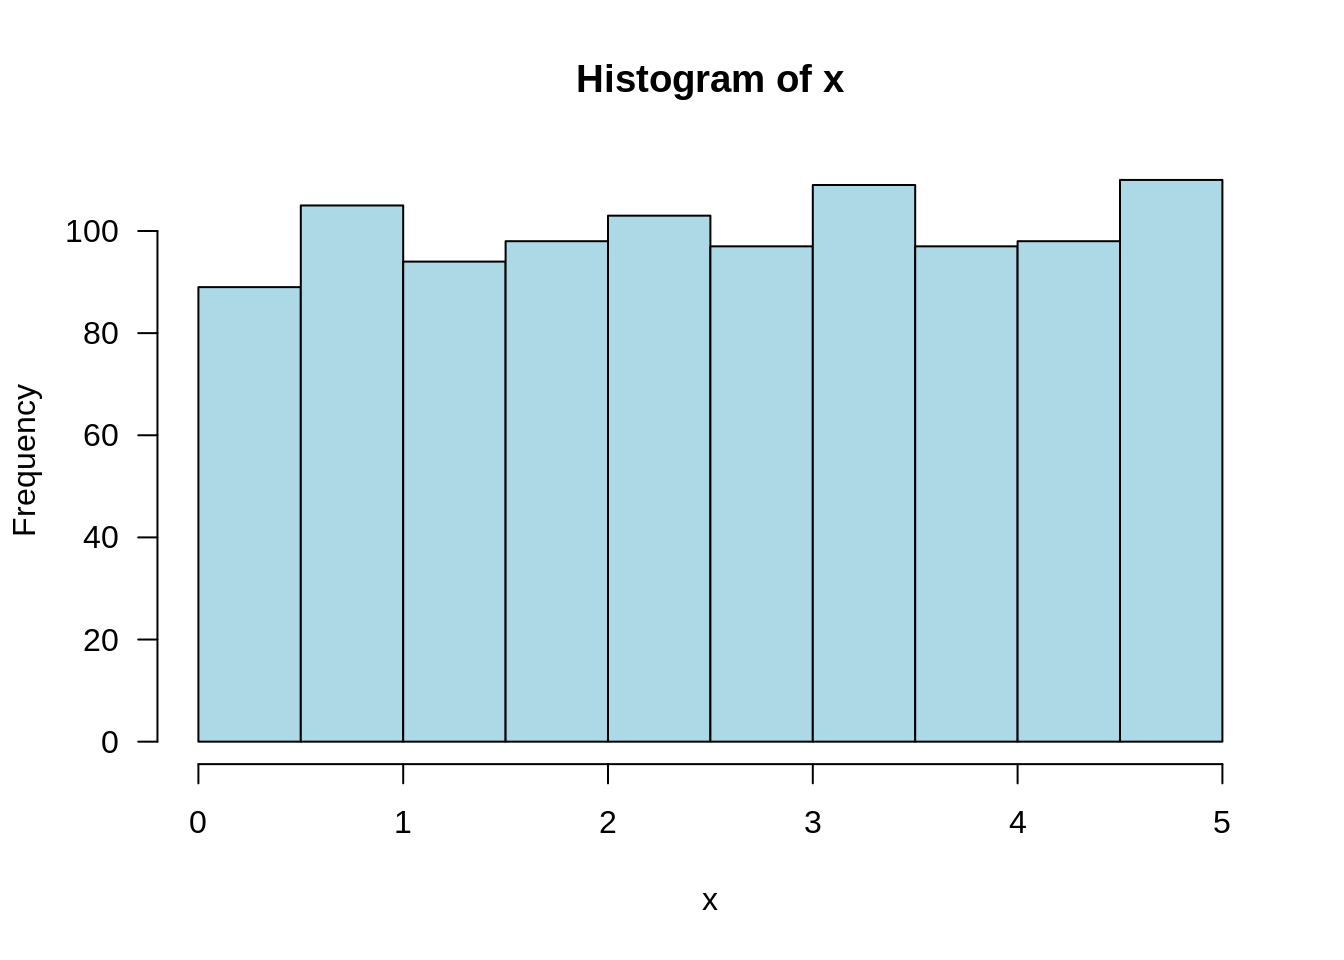
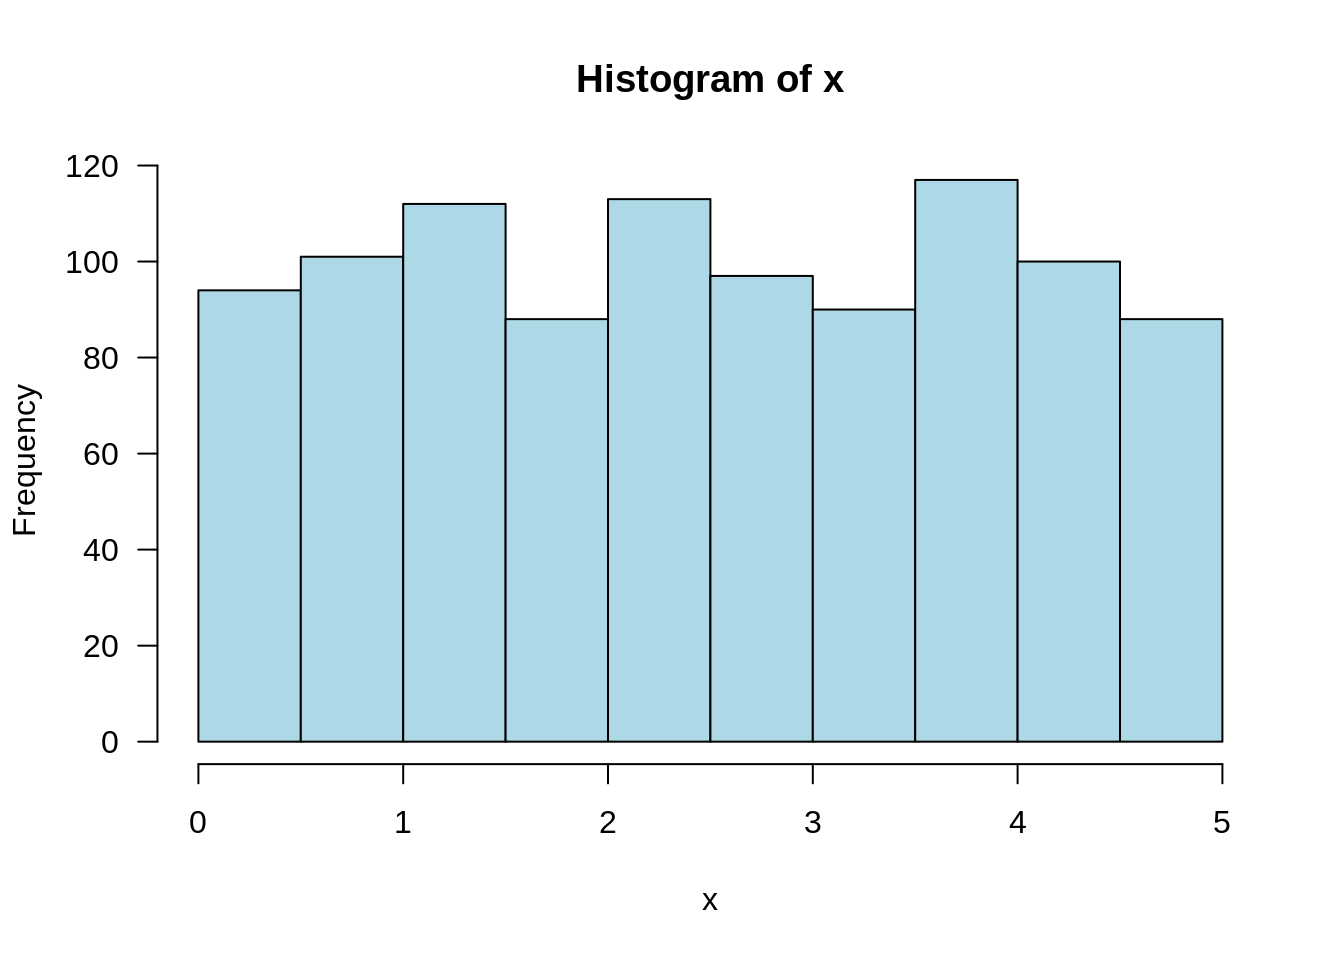
Deploying to gh-pages from @ jtr13/1201@de1b82f096629a61d926f62678b9eced0711f3a2 🚀

diff --git a/ch.-12-linear-regression.html b/ch.-12-linear-regression.html
@@ -87,7 +87,7 @@
 <h3>R<a class="anchor" aria-label="anchor" href="#r-7"><i class="fas fa-link"></i></a>
 </h3>
 <p>Calculating slope and intercept for a sample of (x, y) pairs (p. 498 formulas)</p>
-<div class="sourceCode" id="cb238"><pre class="downlit sourceCode r">
+<div class="sourceCode" id="cb236"><pre class="downlit sourceCode r">
 <code class="sourceCode R"><span class="co"># Example 12.8, p. 503</span>
 <span class="va">x</span> <span class="op">&lt;-</span> <span class="fu"><a href="https://rdrr.io/r/base/c.html">c</a></span><span class="op">(</span><span class="fl">12</span>, <span class="fl">30</span>, <span class="fl">36</span>, <span class="fl">40</span>, <span class="fl">45</span>, <span class="fl">57</span>, <span class="fl">62</span>, <span class="fl">67</span>, <span class="fl">71</span>, <span class="fl">78</span>, <span class="fl">93</span>, <span class="fl">94</span>, <span class="fl">100</span>, <span class="fl">105</span><span class="op">)</span>
 <span class="va">y</span> <span class="op">&lt;-</span> <span class="fu"><a href="https://rdrr.io/r/base/c.html">c</a></span><span class="op">(</span><span class="fl">3.3</span>, <span class="fl">3.2</span>, <span class="fl">3.4</span>, <span class="fl">3</span>, <span class="fl">2.8</span>, <span class="fl">2.9</span>, <span class="fl">2.7</span>, <span class="fl">2.6</span>, <span class="fl">2.5</span>, <span class="fl">2.6</span>, <span class="fl">2.2</span>, <span class="fl">2</span>, <span class="fl">2.3</span>, <span class="fl">2.1</span><span class="op">)</span>
@@ -100,20 +100,20 @@
 ## (Intercept)            x  
 ##     3.62091     -0.01471</code></pre>
 <p><strong>Predicted values:</strong></p>
-<div class="sourceCode" id="cb240"><pre class="downlit sourceCode r">
+<div class="sourceCode" id="cb238"><pre class="downlit sourceCode r">
 <code class="sourceCode R"><span class="va">mod</span> <span class="op">&lt;-</span> <span class="fu"><a href="https://rdrr.io/r/stats/lm.html">lm</a></span><span class="op">(</span><span class="va">y</span><span class="op">~</span><span class="va">x</span><span class="op">)</span>
 <span class="fu"><a href="https://rdrr.io/r/base/Round.html">round</a></span><span class="op">(</span><span class="va">mod</span><span class="op">$</span><span class="va">fitted.values</span>, <span class="fl">2</span><span class="op">)</span></code></pre></div>
 <pre><code>##    1    2    3    4    5    6    7    8    9   10   11   12   13   14 
 ## 3.44 3.18 3.09 3.03 2.96 2.78 2.71 2.64 2.58 2.47 2.25 2.24 2.15 2.08</code></pre>
 <p><strong>Residuals:</strong></p>
-<div class="sourceCode" id="cb242"><pre class="downlit sourceCode r">
+<div class="sourceCode" id="cb240"><pre class="downlit sourceCode r">
 <code class="sourceCode R"><span class="fu"><a href="https://rdrr.io/r/base/Round.html">round</a></span><span class="op">(</span><span class="va">mod</span><span class="op">$</span><span class="va">residuals</span>, <span class="fl">2</span><span class="op">)</span></code></pre></div>
 <pre><code>##     1     2     3     4     5     6     7     8     9    10    11    12    13 
 ## -0.14  0.02  0.31 -0.03 -0.16  0.12 -0.01 -0.04 -0.08  0.13 -0.05 -0.24  0.15 
 ##    14 
 ##  0.02</code></pre>
 <p><strong>SSE, SSR</strong></p>
-<div class="sourceCode" id="cb244"><pre class="downlit sourceCode r">
+<div class="sourceCode" id="cb242"><pre class="downlit sourceCode r">
 <code class="sourceCode R"><span class="fu"><a href="https://rdrr.io/r/stats/anova.html">anova</a></span><span class="op">(</span><span class="va">mod</span><span class="op">)</span>  <span class="co"># anova = analysis of variance</span></code></pre></div>
 <pre><code>## Analysis of Variance Table
 ## 
@@ -129,7 +129,7 @@
 <p>SST = SSE + SSR = 0.2624565 +
 2.2946864 = 2.5571</p>
 <p><strong>Coefficient of determination <span class="math inline">\(r^2\)</span></strong></p>
-<div class="sourceCode" id="cb246"><pre class="downlit sourceCode r">
+<div class="sourceCode" id="cb244"><pre class="downlit sourceCode r">
 <code class="sourceCode R"><span class="co"># Example 12.4, 12.9</span>
 <span class="va">x</span> <span class="op">&lt;-</span> <span class="fu"><a href="https://rdrr.io/r/base/c.html">c</a></span><span class="op">(</span><span class="fl">132</span>, <span class="fl">129</span>, <span class="fl">120</span>, <span class="fl">113.2</span>, <span class="fl">105</span>, <span class="fl">92</span>, <span class="fl">84</span>, <span class="fl">83.2</span>, <span class="fl">88.4</span>, <span class="fl">59</span>, <span class="fl">80</span>, <span class="fl">81.5</span>, <span class="fl">71</span>, <span class="fl">69.2</span><span class="op">)</span>
 <span class="va">y</span> <span class="op">&lt;-</span> <span class="fu"><a href="https://rdrr.io/r/base/c.html">c</a></span><span class="op">(</span><span class="fl">46</span>, <span class="fl">48</span>, <span class="fl">51</span>, <span class="fl">52.1</span>, <span class="fl">54</span>, <span class="fl">52</span>, <span class="fl">59</span>, <span class="fl">58.7</span>, <span class="fl">61.6</span>, <span class="fl">64</span>, <span class="fl">61.4</span>, <span class="fl">54.6</span>, <span class="fl">58.8</span>, <span class="fl">58</span><span class="op">)</span>
@@ -141,7 +141,7 @@
 <span class="fl">1</span> <span class="op">-</span> <span class="op">(</span><span class="va">SSE</span><span class="op">/</span><span class="va">SST</span><span class="op">)</span></code></pre></div>
 <pre><code>## [1] 0.2092398</code></pre>
 <p>Or (simply):</p>
-<div class="sourceCode" id="cb248"><pre class="downlit sourceCode r">
+<div class="sourceCode" id="cb246"><pre class="downlit sourceCode r">
 <code class="sourceCode R"><span class="fu"><a href="https://rdrr.io/r/stats/cor.html">cor</a></span><span class="op">(</span><span class="va">x</span>,<span class="va">y</span><span class="op">)</span><span class="op">^</span><span class="fl">2</span></code></pre></div>
 <pre><code>## [1] 0.7907602</code></pre>
 <p>(See section 12.5)</p>
@@ -161,7 +161,7 @@
 <h3>R<a class="anchor" aria-label="anchor" href="#r-8"><i class="fas fa-link"></i></a>
 </h3>
 <p>Sample correlation coefficient <span class="math inline">\(r\)</span></p>
-<div class="sourceCode" id="cb250"><pre class="downlit sourceCode r">
+<div class="sourceCode" id="cb248"><pre class="downlit sourceCode r">
 <code class="sourceCode R"><span class="co"># Example 12.15, p. 528</span>
 <span class="va">x</span> <span class="op">&lt;-</span> <span class="fu"><a href="https://rdrr.io/r/base/c.html">c</a></span><span class="op">(</span><span class="fl">2.4</span>, <span class="fl">3.4</span>, <span class="fl">4.6</span>, <span class="fl">3.7</span>, <span class="fl">2.2</span>, <span class="fl">3.3</span>, <span class="fl">4.0</span>, <span class="fl">2.1</span><span class="op">)</span>
 <span class="va">y</span> <span class="op">&lt;-</span> <span class="fu"><a href="https://rdrr.io/r/base/c.html">c</a></span><span class="op">(</span><span class="fl">1.33</span>, <span class="fl">2.12</span>, <span class="fl">1.80</span>, <span class="fl">1.65</span>, <span class="fl">2.00</span>, <span class="fl">1.76</span>, <span class="fl">2.11</span>, <span class="fl">1.63</span><span class="op">)</span>
@@ -177,14 +177,14 @@
 <li>
 <strong>(Least squares line)</strong> Researchers employed a least squares analysis in studying how <span class="math inline">\(Y=\)</span> porosity (%) is related to <span class="math inline">\(X=\)</span> unit weight (pcf) in concrete specimens. Consider the following representative data:</li>
 </ol>
-<div class="sourceCode" id="cb252"><pre class="downlit sourceCode r">
+<div class="sourceCode" id="cb250"><pre class="downlit sourceCode r">
 <code class="sourceCode R"><span class="va">x</span> <span class="op">&lt;-</span> <span class="fu"><a href="https://rdrr.io/r/base/c.html">c</a></span><span class="op">(</span><span class="fl">99.0</span>, <span class="fl">101.1</span>, <span class="fl">102.7</span>, <span class="fl">103.0</span>, <span class="fl">105.4</span>, <span class="fl">107.0</span>, <span class="fl">108.7</span>, <span class="fl">110.8</span>, <span class="fl">112.1</span>, <span class="fl">112.4</span>, <span class="fl">113.6</span>, <span class="fl">113.8</span>, <span class="fl">115.1</span>, <span class="fl">115.4</span>, <span class="fl">120.0</span><span class="op">)</span>
 <span class="va">y</span> <span class="op">&lt;-</span> <span class="fu"><a href="https://rdrr.io/r/base/c.html">c</a></span><span class="op">(</span><span class="fl">28.8</span>, <span class="fl">27.9</span>, <span class="fl">27.0</span>, <span class="fl">25.2</span>, <span class="fl">22.8</span>, <span class="fl">21.5</span>, <span class="fl">20.9</span>, <span class="fl">19.6</span>, <span class="fl">17.1</span>, <span class="fl">18.9</span>, <span class="fl">16.0</span>, <span class="fl">16.7</span>, <span class="fl">13.0</span>, <span class="fl">13.6</span>, <span class="fl">10.8</span><span class="op">)</span></code></pre></div>
 <p>(Textbook 12.17)</p>
 <ol style="list-style-type: lower-alpha">
 <li>Obtain the equation of the estimated regression line.</li>
 </ol>
-<div class="sourceCode" id="cb253"><pre class="downlit sourceCode r">
+<div class="sourceCode" id="cb251"><pre class="downlit sourceCode r">
 <code class="sourceCode R"><span class="fu"><a href="https://rdrr.io/r/stats/lm.html">lm</a></span><span class="op">(</span><span class="va">y</span><span class="op">~</span><span class="va">x</span><span class="op">)</span></code></pre></div>
 <pre><code>## 
 ## Call:
@@ -197,7 +197,7 @@
 <ol start="2" style="list-style-type: lower-alpha">
 <li>Calculate the residuals corresponding to the first two observations.</li>
 </ol>
-<div class="sourceCode" id="cb255"><pre class="downlit sourceCode r">
+<div class="sourceCode" id="cb253"><pre class="downlit sourceCode r">
 <code class="sourceCode R"><span class="va">mod</span> <span class="op">&lt;-</span> <span class="fu"><a href="https://rdrr.io/r/stats/lm.html">lm</a></span><span class="op">(</span><span class="va">y</span><span class="op">~</span><span class="va">x</span><span class="op">)</span>
 <span class="fu"><a href="https://rdrr.io/r/base/Round.html">round</a></span><span class="op">(</span><span class="va">mod</span><span class="op">$</span><span class="va">residuals</span>, <span class="fl">2</span><span class="op">)</span></code></pre></div>
 <pre><code>##     1     2     3     4     5     6     7     8     9    10    11    12    13 
@@ -205,31 +205,31 @@
 ##    14    15 
 ## -0.90  0.46</code></pre>
 <p>Or alternatively, use R as a calculator</p>
-<div class="sourceCode" id="cb257"><pre class="downlit sourceCode r">
+<div class="sourceCode" id="cb255"><pre class="downlit sourceCode r">
 <code class="sourceCode R"><span class="va">pred</span> <span class="op">&lt;-</span> <span class="fl">118.9099</span> <span class="op">-</span> <span class="fl">0.9047</span><span class="op">*</span><span class="va">x</span>
 <span class="va">res</span> <span class="op">&lt;-</span> <span class="va">y</span> <span class="op">-</span> <span class="va">pred</span>
 <span class="va">res</span><span class="op">[</span><span class="fl">1</span><span class="op">]</span></code></pre></div>
 <pre><code>## [1] -0.5446</code></pre>
-<div class="sourceCode" id="cb259"><pre class="downlit sourceCode r">
+<div class="sourceCode" id="cb257"><pre class="downlit sourceCode r">
 <code class="sourceCode R"><span class="va">res</span><span class="op">[</span><span class="fl">2</span><span class="op">]</span></code></pre></div>
 <pre><code>## [1] 0.45527</code></pre>
 <ol start="3" style="list-style-type: lower-alpha">
 <li>Calculate a point estimate of <span class="math inline">\(\sigma\)</span>.</li>
 </ol>
-<div class="sourceCode" id="cb261"><pre class="downlit sourceCode r">
+<div class="sourceCode" id="cb259"><pre class="downlit sourceCode r">
 <code class="sourceCode R"><span class="va">sig2</span> <span class="op">&lt;-</span> <span class="fu"><a href="https://rdrr.io/r/base/sum.html">sum</a></span><span class="op">(</span><span class="op">(</span><span class="va">res</span><span class="op">)</span><span class="op">^</span><span class="fl">2</span><span class="op">)</span><span class="op">/</span><span class="op">(</span><span class="fu"><a href="https://rdrr.io/r/base/length.html">length</a></span><span class="op">(</span><span class="va">x</span><span class="op">)</span><span class="op">-</span><span class="fl">2</span><span class="op">)</span>
 <span class="fu"><a href="https://rdrr.io/r/base/MathFun.html">sqrt</a></span><span class="op">(</span><span class="va">sig2</span><span class="op">)</span></code></pre></div>
 <pre><code>## [1] 0.938042</code></pre>
 <ol start="4" style="list-style-type: lower-alpha">
 <li>What proportion of observed variation in porosity can be attributed to the approximate linear relationship between unit weight and porosity?</li>
 </ol>
-<div class="sourceCode" id="cb263"><pre class="downlit sourceCode r">
+<div class="sourceCode" id="cb261"><pre class="downlit sourceCode r">
 <code class="sourceCode R"><span class="fu"><a href="https://rdrr.io/r/stats/cor.html">cor</a></span><span class="op">(</span><span class="va">x</span>, <span class="va">y</span><span class="op">)</span><span class="op">^</span><span class="fl">2</span></code></pre></div>
 <pre><code>## [1] 0.9738874</code></pre>
 <ol start="5" style="list-style-type: lower-alpha">
 <li>Calculate the SSE and SST.</li>
 </ol>
-<div class="sourceCode" id="cb265"><pre class="downlit sourceCode r">
+<div class="sourceCode" id="cb263"><pre class="downlit sourceCode r">
 <code class="sourceCode R"><span class="fu"><a href="https://rdrr.io/r/stats/anova.html">anova</a></span><span class="op">(</span><span class="va">mod</span><span class="op">)</span> <span class="co"># analsis of variance</span></code></pre></div>
 <pre><code>## Analysis of Variance Table
 ## 
@@ -239,13 +239,13 @@
 ## Residuals 13  11.44    0.88                             
 ## ---
 ## Signif. codes:  0 '***' 0.001 '**' 0.01 '*' 0.05 '.' 0.1 ' ' 1</code></pre>
-<div class="sourceCode" id="cb267"><pre class="downlit sourceCode r">
+<div class="sourceCode" id="cb265"><pre class="downlit sourceCode r">
 <code class="sourceCode R"><span class="va">SSE</span> <span class="op">&lt;-</span> <span class="fu"><a href="https://rdrr.io/r/stats/anova.html">anova</a></span><span class="op">(</span><span class="va">mod</span><span class="op">)</span><span class="op">$</span><span class="va">`Sum Sq`</span><span class="op">[</span><span class="fl">1</span><span class="op">]</span>
 <span class="va">SST</span> <span class="op">&lt;-</span> <span class="fu"><a href="https://rdrr.io/r/stats/anova.html">anova</a></span><span class="op">(</span><span class="va">mod</span><span class="op">)</span><span class="op">$</span><span class="va">`Sum Sq`</span><span class="op">[</span><span class="fl">1</span><span class="op">]</span> <span class="op">+</span> <span class="fu"><a href="https://rdrr.io/r/stats/anova.html">anova</a></span><span class="op">(</span><span class="va">mod</span><span class="op">)</span><span class="op">$</span><span class="va">`Sum Sq`</span><span class="op">[</span><span class="fl">2</span><span class="op">]</span>
 <span class="fu"><a href="https://rdrr.io/r/base/c.html">c</a></span><span class="op">(</span><span class="va">SSE</span>, <span class="va">SST</span><span class="op">)</span></code></pre></div>
 <pre><code>## [1] 426.6185 438.0573</code></pre>
 <p>Or alternatively, use R as a calculator. Notice that the same results are produced.</p>
-<div class="sourceCode" id="cb269"><pre class="downlit sourceCode r">
+<div class="sourceCode" id="cb267"><pre class="downlit sourceCode r">
 <code class="sourceCode R"><span class="va">SSE1</span> <span class="op">&lt;-</span> <span class="fu"><a href="https://rdrr.io/r/base/sum.html">sum</a></span><span class="op">(</span><span class="op">(</span><span class="va">mod</span><span class="op">$</span><span class="va">residual</span><span class="op">)</span><span class="op">^</span><span class="fl">2</span><span class="op">)</span>
 <span class="va">SST1</span> <span class="op">&lt;-</span> <span class="fu"><a href="https://rdrr.io/r/base/sum.html">sum</a></span><span class="op">(</span><span class="op">(</span><span class="va">y</span><span class="op">-</span><span class="fu"><a href="https://rdrr.io/r/base/mean.html">mean</a></span><span class="op">(</span><span class="va">y</span><span class="op">)</span><span class="op">)</span><span class="op">^</span><span class="fl">2</span><span class="op">)</span>
 <span class="va">SSR1</span> <span class="op">&lt;-</span> <span class="fu"><a href="https://rdrr.io/r/base/sum.html">sum</a></span><span class="op">(</span><span class="op">(</span><span class="va">mod</span><span class="op">$</span><span class="va">fitted.values</span> <span class="op">-</span> <span class="fu"><a href="https://rdrr.io/r/base/mean.html">mean</a></span><span class="op">(</span><span class="va">y</span><span class="op">)</span><span class="op">)</span><span class="op">^</span><span class="fl">2</span><span class="op">)</span>

diff --git a/ch.-14-chi-squared-test.html b/ch.-14-chi-squared-test.html
@@ -217,23 +217,8 @@
 ## 
 ## data:  data
 ## X-squared = 212.91, df = 6, p-value &lt; 0.00000000000000022</code></pre>
-<p>Alternatively, we can use R as a calculator.</p>
-<div class="sourceCode" id="cb236"><pre class="downlit sourceCode r">
-<code class="sourceCode R"><span class="va">total</span> <span class="op">&lt;-</span> <span class="fu"><a href="https://rdrr.io/r/base/sum.html">sum</a></span><span class="op">(</span><span class="va">data</span><span class="op">)</span>
-<span class="va">prob</span> <span class="op">&lt;-</span> <span class="va">data</span><span class="op">/</span><span class="va">total</span>
-<span class="va">expected</span> <span class="op">&lt;-</span> <span class="va">data</span> <span class="co"># initialize matrix "expected" to be the same size as "data"</span>
-
-<span class="kw">for</span> <span class="op">(</span><span class="va">i</span> <span class="kw">in</span> <span class="fl">1</span><span class="op">:</span><span class="fl">4</span><span class="op">)</span><span class="op">{</span>
-  <span class="kw">for</span><span class="op">(</span><span class="va">j</span> <span class="kw">in</span> <span class="fl">1</span><span class="op">:</span><span class="fl">3</span><span class="op">)</span><span class="op">{</span>
-    <span class="va">expected</span><span class="op">[</span><span class="va">i</span>,<span class="va">j</span><span class="op">]</span> <span class="op">&lt;-</span> <span class="fu"><a href="https://rdrr.io/r/base/sum.html">sum</a></span><span class="op">(</span><span class="va">prob</span><span class="op">[</span><span class="va">i</span>,<span class="op">]</span><span class="op">)</span><span class="op">*</span><span class="fu"><a href="https://rdrr.io/r/base/sum.html">sum</a></span><span class="op">(</span><span class="va">prob</span><span class="op">[</span>,<span class="va">j</span><span class="op">]</span><span class="op">)</span><span class="op">*</span><span class="va">total</span>
-  <span class="op">}</span>
-<span class="op">}</span>
-
-<span class="va">chisq</span> <span class="op">&lt;-</span> <span class="fu"><a href="https://rdrr.io/r/base/sum.html">sum</a></span><span class="op">(</span><span class="op">(</span><span class="va">data</span><span class="op">-</span><span class="va">expected</span><span class="op">)</span><span class="op">^</span><span class="fl">2</span><span class="op">/</span><span class="va">expected</span><span class="op">)</span>
-<span class="va">chisq</span></code></pre></div>
-<pre><code>## [1] 212.9072</code></pre>
 <p><span class="math inline">\(p-value &lt; .01\)</span></p>
-<p>Reject <span class="math inline">\(H_0\)</span>. There is an association between extent of binge drinking and age group in the population from which the sample was selected.</p>
+<p>Reject <span class="math inline">\(H_0\)</span>. There appears to be an association between extent of binge drinking and age group in the population from which the sample was selected.</p>
 
 </div>
 </div>

diff --git a/ch.-4-continuous-random-variables-and-probability-distributions.html b/ch.-4-continuous-random-variables-and-probability-distributions.html
@@ -82,12 +82,12 @@
 <p><span class="math inline">\(f(x) = .2\)</span> for <span class="math inline">\(0 \leq x \leq 5\)</span>, 0 otherwise.</p>
 <div class="sourceCode" id="cb158"><pre class="downlit sourceCode r">
 <code class="sourceCode R"><span class="fu"><a href="https://rdrr.io/r/stats/Uniform.html">runif</a></span><span class="op">(</span>n <span class="op">=</span> <span class="fl">1</span>, min <span class="op">=</span> <span class="fl">0</span>, max <span class="op">=</span> <span class="fl">5</span><span class="op">)</span></code></pre></div>
-<pre><code>## [1] 4.88419</code></pre>
+<pre><code>## [1] 4.642247</code></pre>
 <p>Take the average of 1000 picks:</p>
 <div class="sourceCode" id="cb160"><pre class="downlit sourceCode r">
 <code class="sourceCode R"><span class="va">x</span> <span class="op">&lt;-</span> <span class="fu"><a href="https://rdrr.io/r/stats/Uniform.html">runif</a></span><span class="op">(</span>n <span class="op">=</span> <span class="fl">1000</span>, min <span class="op">=</span> <span class="fl">0</span>, max <span class="op">=</span> <span class="fl">5</span><span class="op">)</span>
 <span class="fu"><a href="https://rdrr.io/r/base/mean.html">mean</a></span><span class="op">(</span><span class="va">x</span><span class="op">)</span></code></pre></div>
-<pre><code>## [1] 2.546624</code></pre>
+<pre><code>## [1] 2.492723</code></pre>
 <p>Draw a histogram of the 1000 picks:</p>
 <div class="sourceCode" id="cb162"><pre class="downlit sourceCode r">
 <code class="sourceCode R"><span class="fu"><a href="https://rdrr.io/r/graphics/hist.html">hist</a></span><span class="op">(</span><span class="va">x</span>, las <span class="op">=</span> <span class="fl">1</span>, col <span class="op">=</span> <span class="st">"lightblue"</span><span class="op">)</span></code></pre></div>

diff --git a/ch.-1-descriptive-statistics.html b/ch.-1-descriptive-statistics.html
@@ -77,12 +77,12 @@
 <p><strong>Ex:</strong> To generate a sample of 6 numbers from the integers between 1 and 20:</p>
 <div class="sourceCode" id="cb26"><pre class="downlit sourceCode r">
 <code class="sourceCode R"><span class="fu"><a href="https://rdrr.io/r/base/sample.html">sample</a></span><span class="op">(</span>x <span class="op">=</span> <span class="fl">1</span><span class="op">:</span><span class="fl">20</span>, size  <span class="op">=</span> <span class="fl">6</span><span class="op">)</span></code></pre></div>
-<pre><code>## [1]  3  2  4 11  6 12</code></pre>
+<pre><code>## [1] 14  8 15  2 17  4</code></pre>
 <p>Note: this syntax assumes that there is no replacement (it won’t pick the same number twice).
 If you want to sample <em>with</em> replacement use the following:</p>
 <div class="sourceCode" id="cb28"><pre class="downlit sourceCode r">
 <code class="sourceCode R"><span class="fu"><a href="https://rdrr.io/r/base/sample.html">sample</a></span><span class="op">(</span>x <span class="op">=</span> <span class="fl">1</span><span class="op">:</span><span class="fl">20</span>, size <span class="op">=</span> <span class="fl">8</span>, replace <span class="op">=</span> <span class="cn">TRUE</span><span class="op">)</span></code></pre></div>
-<pre><code>## [1]  8 11  5 15 20  4  3  8</code></pre>
+<pre><code>## [1] 15 17 15 11 17  4 19 10</code></pre>
 </div>
 <div id="pictorial-and-tabular-methods-in-descriptive-statistics" class="section level2 unnumbered">
 <h2>1.2 Pictorial and Tabular Methods in Descriptive Statistics<a class="anchor" aria-label="anchor" href="#pictorial-and-tabular-methods-in-descriptive-statistics"><i class="fas fa-link"></i></a>
